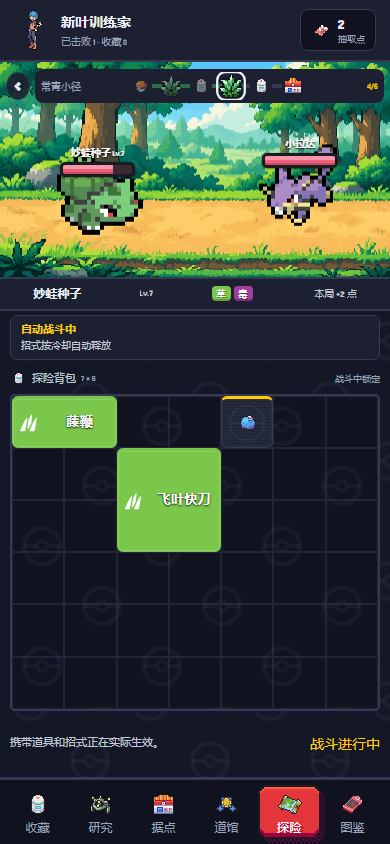
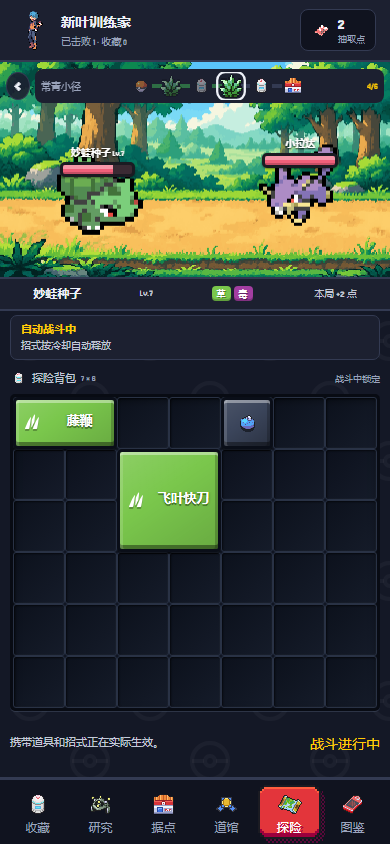
style(poke): inset backpack pieces with continuous beveled faces

Changed region(s): [[0.0, 0.4621, 0.9846, 0.8626], [0.1538, 0.7701, 0.1846, 0.8009]]

diff --git a/outputs/laozu-web/poke/app.js b/outputs/laozu-web/poke/app.js
@@ -65,7 +65,7 @@
   }catch(e){toast(e.message);}}
   app.addEventListener('click',e=>{const a=e.target.closest('[data-action]');if(a){if(!a.disabled)act(a.dataset.action);return;}const item=e.target.closest('[data-item]');if(item){selected=item.dataset.item;tip=tip===selected?null:selected;render();return;}const cell=e.target.closest('[data-cell]');if(cell&&selected){tip=null;try{const i=+cell.dataset.cell;M.place(selected,i%7,Math.floor(i/7));save();render();}catch(e){toast(e.message);}}});
   app.addEventListener('pointerdown',e=>{const item=e.target.closest('[data-item]');if(!item||!['ready','reward','event'].includes(M.s.run?.phase)||e.button!==0)return;const rect=item.getBoundingClientRect(),data=[...M.s.run.items,...M.s.run.pending].find(x=>x.uid===item.dataset.item),[w,h]=M.size(data);drag={uid:data.uid,startX:e.clientX,startY:e.clientY,x:e.clientX,y:e.clientY,offsetX:data.x==null?0:Math.min(w-1,Math.floor((e.clientX-rect.left)/rect.width*w)),offsetY:data.y==null?0:Math.min(h-1,Math.floor((e.clientY-rect.top)/rect.height*h)),moved:false};item.setPointerCapture(e.pointerId);});
-  app.addEventListener('pointermove',e=>{if(!drag)return;drag.x=e.clientX;drag.y=e.clientY;if(Math.hypot(drag.x-drag.startX,drag.y-drag.startY)>7){drag.moved=true;tip=null;app.querySelector('#item-tip')?.remove();let ghost=document.querySelector('#drag-ghost');if(!ghost){ghost=document.createElement('div');ghost.id='drag-ghost';ghost.innerHTML=app.querySelector(`[data-item="${drag.uid}"]`).innerHTML;document.body.append(ghost);}ghost.style.left=e.clientX+'px';ghost.style.top=e.clientY+'px';}});
+  app.addEventListener('pointermove',e=>{if(!drag)return;drag.x=e.clientX;drag.y=e.clientY;if(Math.hypot(drag.x-drag.startX,drag.y-drag.startY)>7){drag.moved=true;tip=null;app.querySelector('#item-tip')?.remove();let ghost=document.querySelector('#drag-ghost');if(!ghost){ghost=document.createElement('div');ghost.id='drag-ghost';const source=app.querySelector(`[data-item="${drag.uid}"]`);ghost.innerHTML=source.innerHTML;ghost.style.setProperty('--type',getComputedStyle(source).getPropertyValue('--type'));document.body.append(ghost);}ghost.style.left=e.clientX+'px';ghost.style.top=e.clientY+'px';}});
   app.addEventListener('pointerup',e=>{if(!drag)return;const d=drag;drag=null;document.querySelector('#drag-ghost')?.remove();if(!d.moved)return;const rect=app.querySelector('.board')?.getBoundingClientRect();try{if(rect&&e.clientX>=rect.left&&e.clientX<rect.right&&e.clientY>=rect.top&&e.clientY<rect.bottom){M.place(d.uid,Math.floor((e.clientX-rect.left)/rect.width*7)-d.offsetX,Math.floor((e.clientY-rect.top)/rect.height*6)-d.offsetY);selected=d.uid;save();}else toast('未放入背包，物品保持原位');}catch(error){toast(error.message);}render();});
   app.addEventListener('pointercancel',()=>{drag=null;document.querySelector('#drag-ghost')?.remove();});
   document.addEventListener('pointerdown',e=>{if(tip&&!e.target.closest('[data-item]')&&!e.target.closest('#item-tip')){tip=null;app.querySelector('#item-tip')?.remove();}});

diff --git a/outputs/laozu-web/poke/battle-ui.css b/outputs/laozu-web/poke/battle-ui.css
@@ -88,3 +88,21 @@
 .item.move .type-well{background:transparent}
 .item.move.selected{outline:2px solid var(--yellow);box-shadow:0 0 8px #ffcb0555}
 .move-line b{text-shadow:0 1px 2px #000b,0 0 2px #0008}
+
+/* Interlocking backpack blocks: inset cell tray and continuous beveled pieces. */
+.board{border:3px solid #080b13;border-radius:5px;background:#101522;box-shadow:inset 0 3px 9px #000b,0 1px 0 #53607966}
+.cells>button{border:1px solid #293245;background:linear-gradient(135deg,#080d1680,#1a223180);box-shadow:inset 1px 1px 2px #0009,inset -1px -1px 0 #ffffff06;border-radius:3px}
+.item.move,.item.held,.reward-items .item.move,.reward-items .item.held{
+ position:relative;isolation:isolate;border:3px solid #0a0e18;border-radius:5px;
+ background-color:var(--type);background-image:linear-gradient(145deg,#ffffff24,transparent 42%,#00000024);
+ box-shadow:inset 0 3px 0 #ffffff65,inset 3px 0 0 #ffffff25,inset 0 -4px 0 #0006,inset -3px 0 0 #0003,0 2px 0 #0008;
+}
+.board .item{position:absolute}
+.item.held,.reward-items .item.held{background-color:#3b455b;background-image:linear-gradient(145deg,#ffffff14,transparent 45%,#0004)}
+.item:before{content:none}
+.item .move-line{padding:3px 2px 5px;gap:1px}
+.move-line .source-type{filter:drop-shadow(0 2px 0 #0004);width:95%}
+.item .move-line b{font-size:clamp(8px,13cqw,18px);text-shadow:0 2px 0 #0005,0 0 3px #0007}
+.item.selected,.item.move.selected{outline:none;border-color:#ffe18b;box-shadow:inset 0 3px 0 #fff7,inset 3px 0 0 #fff3,inset 0 -4px 0 #0005,0 0 0 1px #8d6826,0 0 10px #ffcb054d;z-index:2}
+.item.held .held-art{filter:drop-shadow(0 2px 0 #0007)}
+#drag-ghost{border:3px solid #ffe18b;border-radius:5px;box-shadow:inset 0 3px 0 #fff5,inset 0 -4px 0 #0006,0 8px 16px #0007;padding:4px;background:var(--type,#3b455b)}

diff --git a/outputs/laozu-web/index.html b/outputs/laozu-web/index.html
@@ -13,7 +13,7 @@
 <script defer src="poke/catalog.js"></script>
 <script defer src="poke/model.js"></script>
 <script defer src="poke/app.js"></script>
-<link rel="stylesheet" href="poke/battle-ui.css?v=5">
+<link rel="stylesheet" href="poke/battle-ui.css?v=6">
 </head>
 <body class="px" data-theme="dark">
 <div id="app" aria-label="宝可梦行囊探险"><main><h1>宝可梦 · 行囊探险</h1><p>正在载入伙伴资料……</p></main></div>

diff --git a/tools/rea-pipeline/poke-fusion/BATTLE-UI.md b/tools/rea-pipeline/poke-fusion/BATTLE-UI.md
@@ -36,3 +36,7 @@
 ## 整卡属性底色与放大（2026-10-23）
 
 按用户更新：属性底色覆盖整个招式卡（奖励区和已入包一致），图标与名称仍为单行并放大。白色符号保留开源 SVG 原路径，仅派生移除外圆底色的版本，记录于 type-icons/symbols/derivation.json；上游原图与许可保持不变。名称按卡块宽度缩放，狭窄旋转卡仍可点击查看完整名称。23 项专项、30 项完整闭环通过；截图已核对。
+
+## 背包积木外观（2026-10-23）
+
+技能与道具统一为凹槽中嵌入的砖块：深色外框、上沿高光、下沿厚阴影。技能整块覆盖属性色，白色图标和名称保持同行；按用户修正，块内部没有分割线，仅背包空格保留网格边界。拖拽影像继承属性色，选中状态用浅金外框。未改变占格、碰撞、旋转或战斗规则。23 项专项、30 项闭环与 33 项主题回归通过；窄屏截图已复核。
